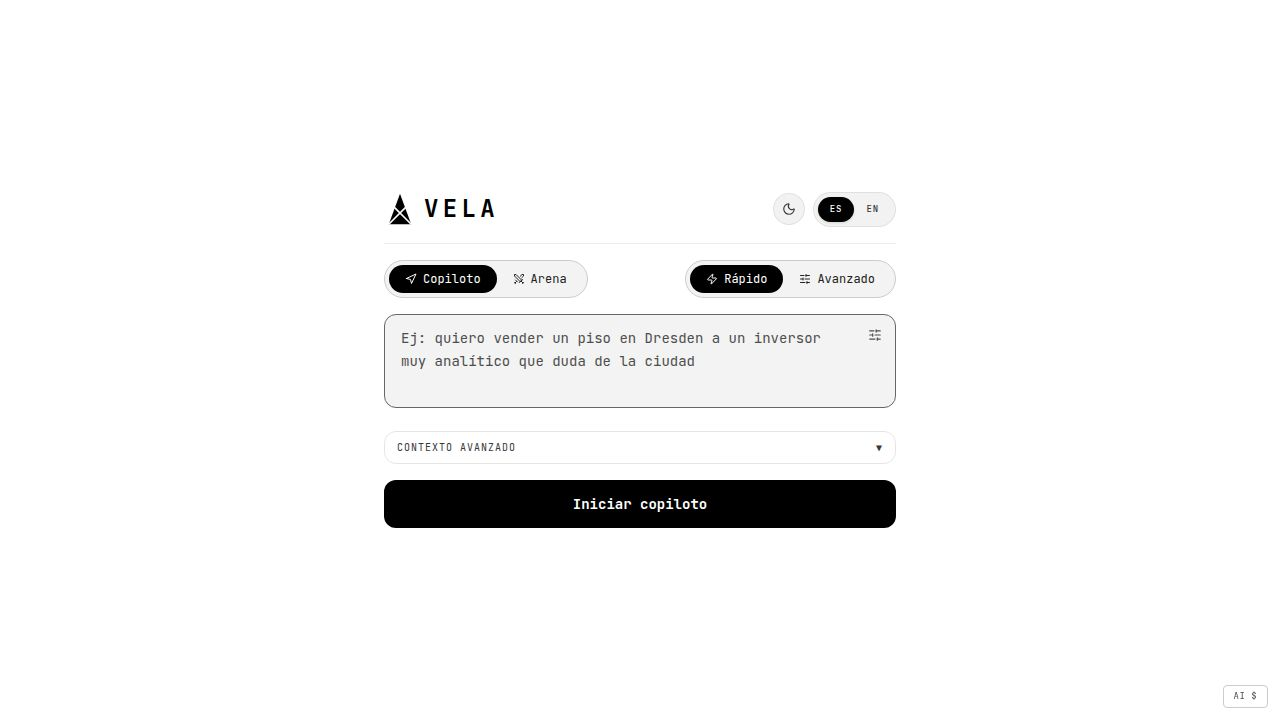
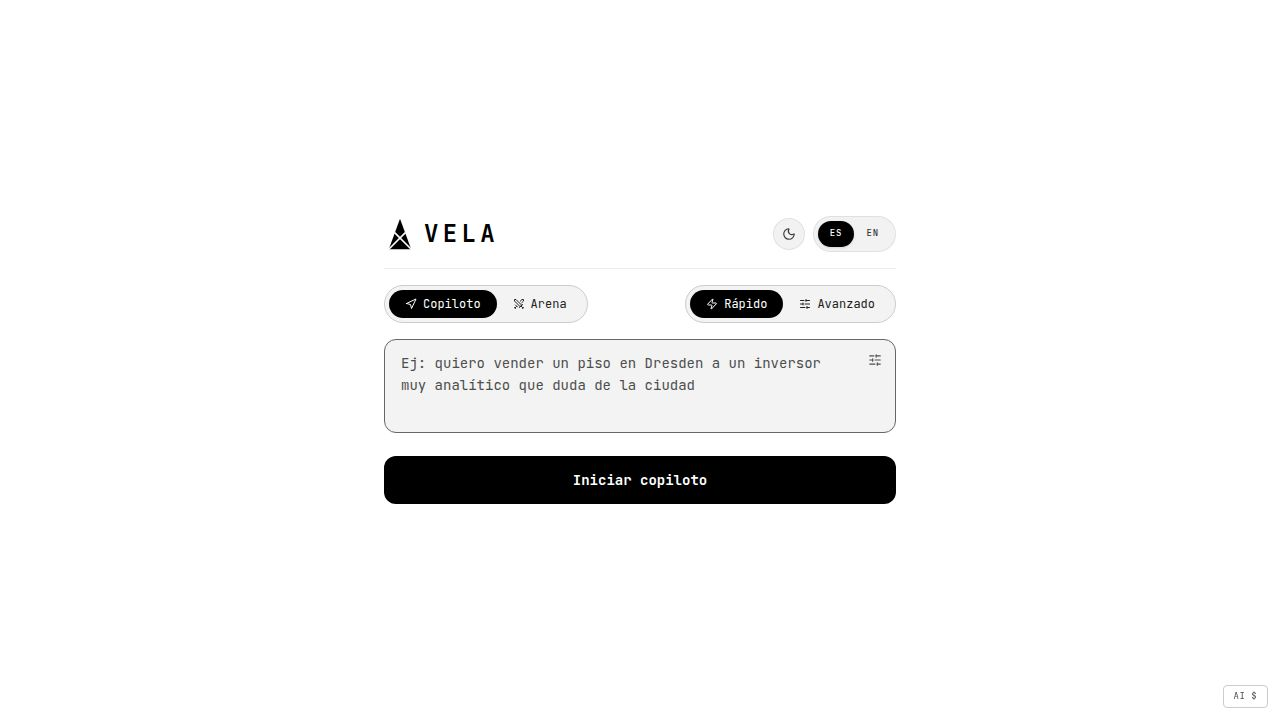
Improve next step and speaker uncertainty evaluation in copilot
Refactor `audit-log.ts` to introduce a 3-level `next_step_quality` classification and update the `speaker_uncertainty` calculation and propagation across frontend and API endpoints.

Replit-Commit-Author: Agent
Replit-Commit-Session-Id: 3252b83a-651d-4a93-ae5d-be14b1b4ba46
Replit-Commit-Checkpoint-Type: full_checkpoint
Replit-Commit-Event-Id: 6249a5c0-dbbf-4f94-830f-a07081d9441c
Replit-Commit-Screenshot-Url: https://storage.googleapis.com/screenshot-production-us-central1/965d7078-f682-4f8c-b5fa-cdb63467bbce/3252b83a-651d-4a93-ae5d-be14b1b4ba46/BwRq414
Replit-Helium-Checkpoint-Created: true

Changed region(s): [[0.2812, 0.275, 0.6875, 0.55], [0.2812, 0.6111, 0.7188, 0.7333]]

diff --git a/artifacts/api-server/src/routes/copilot.ts b/artifacts/api-server/src/routes/copilot.ts
@@ -478,7 +478,7 @@ router.post("/copilot/summarize", async (req, res) => {
   const parseResult = CallSummarizeBody.safeParse(req.body);
   if (!parseResult.success) { res.status(400).json({ error: "Invalid request body" }); return; }
 
-  const { call_memory, outcome, lang, full_report } = parseResult.data;
+  const { call_memory, outcome, lang, full_report, speaker_uncertainty } = parseResult.data;
   const sessionId = (req.headers["x-session-id"] as string | undefined) ?? undefined;
   const isEn = lang === "en";
 
@@ -488,6 +488,12 @@ router.post("/copilot/summarize", async (req, res) => {
 
   const outcomeText = outcome ?? (isEn ? "unclear" : "no claro");
   const wantsFullReport = !!full_report;
+
+  const speakerUncertaintyBlock = speaker_uncertainty?.high
+    ? (isEn
+        ? `\nSPEAKER UNCERTAINTY HIGH: ${speaker_uncertainty.unknown_turns ?? "?"} of ${speaker_uncertainty.total_turns ?? "?"} turns (${Math.round((speaker_uncertainty.rate ?? 0) * 100)}%) were UNKNOWN in auto mode. Tactical reads may be contaminated. DO NOT make strong causal conclusions about conversational control or seller behavior unless supported by explicit memory evidence. Flag any control-related weakness with lower confidence.`
+        : `\nALTA INCERTIDUMBRE DE HABLANTE: ${speaker_uncertainty.unknown_turns ?? "?"} de ${speaker_uncertainty.total_turns ?? "?"} turnos (${Math.round((speaker_uncertainty.rate ?? 0) * 100)}%) fueron UNKNOWN en modo automático. Las lecturas tácticas pueden estar contaminadas. NO saques conclusiones causales fuertes sobre control conversacional o comportamiento del vendedor salvo que haya evidencia explícita en la memoria. Señala cualquier debilidad de control con confianza reducida.`)
+    : "";
 
   // ── Compact bilingual summarize prompt (shared structure, lang-switched values)
   const fullReportInstructions = wantsFullReport
@@ -536,9 +542,10 @@ STAGE ADVANCE vs FAILED CLOSE — distinguish before scoring:
 — Explaining a commercial process step (sending a proposal, scheduling a review) is NOT a close attempt. Only count as a close attempt if there was an explicit request for immediate commitment.
 — Historical objections from context do not dominate if the actual transcript axis was different. Score based on what actually happened.
 NEXT STEP QUALITY — reflect in scoring:
-— strong: date + deliverable + decision criterion → treat as solid outcome (7.5-8.4 range if well executed)
-— useful: date + concrete deliverable → treat as good partial (6.5-7.5)
-— weak: date without deliverable → note as gap, penalize accordingly
+— strong: date/time + deliverable + explicit decision criterion → treat as solid outcome (7.5-8.4 range if well executed). Global_state can be "strong" or "solid".
+— useful: date/time or concrete channel (video call, email, meeting link) or concrete deliverable (proposal, contract, summary, info to send) → treat as real advance (6.5-7.5). Do NOT describe as "open conversation" or "no clear commitment". The next step existed and was operative.
+— weak: no date, no channel, no deliverable → note as gap and penalize. Global_state should not be "strong".
+IMPORTANT: "useful" is a real advance. Penalize for missing decision criterion as a note, but do NOT degrade it to "no commitment" or "open result".
 
 GLOBAL STATE: 1-2 words (strong/solid/advancing/workable/weak/blocked/lost/open)
 STRENGTHS: 2-3 specific tactical observations. No generic praise.
@@ -568,9 +575,10 @@ AVANCE DE ETAPA vs FALLO DE CIERRE — distinguir antes de puntuar:
 — Explicar un paso del proceso comercial (enviar propuesta, agendar revisión) NO es intento de cierre. Solo cuenta si hubo petición explícita de compromiso inmediato.
 — Las objeciones históricas del contexto no dominan si el eje real de la llamada fue otro. Puntúa según lo que ocurrió realmente.
 CALIDAD DEL SIGUIENTE PASO — refleja en la puntuación:
-— fuerte: fecha + entregable + criterio de decisión → tratar como resultado sólido (rango 7.5-8.4 si bien ejecutado)
-— útil: fecha + entregable concreto → buen parcial (6.5-7.5)
-— débil: fecha sin entregable → nota como debilidad, penaliza según corresponda
+— fuerte: fecha/hora + entregable + criterio de decisión explícito → resultado sólido (7.5-8.4 si bien ejecutado). Global_state puede ser "fuerte" o "sólida".
+— útil: fecha/hora o canal concreto (videollamada, correo, enlace de reunión) o entregable concreto (propuesta, contrato, resumen, info a enviar) → avance real (6.5-7.5). NO describir como "conversación abierta" ni "sin compromiso claro". El siguiente paso existió y era operativo.
+— débil: sin fecha, sin canal, sin entregable → señala como debilidad, penaliza. Global_state no puede ser "fuerte".
+IMPORTANTE: "útil" es un avance real. Penaliza por falta de criterio de decisión como nota, pero NO lo degrades a "sin compromiso" ni "resultado abierto".
 
 ESTADO GLOBAL: 1-2 palabras (fuerte/sólida/avanzando/trabajable/floja/bloqueada/perdida/abierta)
 PUNTOS FUERTES: 2-3 observaciones tácticas específicas. Sin elogios genéricos.
@@ -578,7 +586,7 @@ PUNTOS A MEJORAR: 2-3 observaciones tácticas específicas y honestas.
 
 ${fullReportInstructions}`;
 
-  const userMessage = `${isEn ? "TACTICAL CALL MEMORY" : "MEMORIA TÁCTICA"}:\n${memoryText}\n\n${isEn ? "REPORTED OUTCOME" : "RESULTADO DECLARADO"}: ${outcomeText}\n\n${isEn ? "Analyze and return JSON:" : "Analiza y devuelve el JSON:"}`;
+  const userMessage = `${isEn ? "TACTICAL CALL MEMORY" : "MEMORIA TÁCTICA"}:\n${memoryText}\n\n${isEn ? "REPORTED OUTCOME" : "RESULTADO DECLARADO"}: ${outcomeText}${speakerUncertaintyBlock}\n\n${isEn ? "Analyze and return JSON:" : "Analiza y devuelve el JSON:"}`;
 
   const t0 = Date.now();
   try {
@@ -638,17 +646,24 @@ ${fullReportInstructions}`;
 // Input: { call_memory, outcome, context?, lang }
 // Output: BrutalAudit JSON
 router.post("/copilot/audit-report", async (req, res) => {
-  const { call_memory, outcome, context, lang = "es" } = req.body as {
+  const { call_memory, outcome, context, lang = "es", speaker_uncertainty } = req.body as {
     call_memory?: string[];
     outcome?: string;
     context?: string;
     lang?: string;
+    speaker_uncertainty?: { high: boolean; rate?: number; unknown_turns?: number; total_turns?: number };
   };
 
   const isEn = lang === "en";
   const memoryText = (call_memory ?? []).map(l => `- ${l}`).join("\n") || (isEn ? "(No memory)" : "(Sin memoria)");
   const outcomeText = outcome ?? (isEn ? "unknown" : "desconocido");
   const contextText = context?.trim() ? `\n${isEn ? "SESSION CONTEXT" : "CONTEXTO"}: ${context.trim()}` : "";
+
+  const auditSpeakerUncertaintyBlock = speaker_uncertainty?.high
+    ? (isEn
+        ? `\nSPEAKER UNCERTAINTY HIGH: ${speaker_uncertainty.unknown_turns ?? "?"} of ${speaker_uncertainty.total_turns ?? "?"} turns (${Math.round((speaker_uncertainty.rate ?? 0) * 100)}%) were UNKNOWN in auto mode. DO NOT make causal conclusions about who controlled the conversation or about seller-specific tactical patterns unless supported by explicit evidence. The failure_owner field must NOT attribute a failure to "seller" solely based on inferred conversational control if speaker attribution is uncertain. Flag affected findings with lower confidence.`
+        : `\nALTA INCERTIDUMBRE DE HABLANTE: ${speaker_uncertainty.unknown_turns ?? "?"} de ${speaker_uncertainty.total_turns ?? "?"} turnos (${Math.round((speaker_uncertainty.rate ?? 0) * 100)}%) fueron UNKNOWN en modo automático. NO hagas conclusiones causales sobre quién controló la conversación ni sobre patrones tácticos específicos del vendedor salvo que haya evidencia explícita. El campo failure_owner NO debe atribuir un fallo al "vendedor" solo por control conversacional inferido si la atribución de hablante es incierta. Señala los hallazgos afectados con confianza reducida.`)
+    : "";
 
   const schema = `{"verdict":"string","what_worked":["string"],"what_failed":["string"],"failure_owner":["vendedor|timing|sistema|técnico|setup|sin fallo real — descripción"],"missed_closes":["string"],"rules_violated":["string"],"priority_changes":["string","string","string"],"prompt_patch":null,"prompt_for_replit":null,"what_i_would_have_done":"string","suspected_claim_risk":"yes|no","suspected_unresolved_technical_objection":"yes|no","suspected_false_confidence":"yes|no","suspected_soft_next_step":"yes|no"}`;
 
@@ -674,7 +689,8 @@ RISK FLAGS — evaluate carefully and set each:
 — suspected_claim_risk: "yes" if the seller used "guarantee", "certified", "I assure you", "100% safe", "no risk" or similar as a main argument without concrete evidence. "no" otherwise.
 — suspected_unresolved_technical_objection: "yes" if the client raised a specific technical objection (numbers, ROI, methodology, data) and it was deferred to documents or answered with generic reframing instead of concrete evidence. "no" otherwise.
 — suspected_false_confidence: "yes" if the seller used an official certification, regulatory body, or audit as definitive proof of future value or security. "no" otherwise.
-— suspected_soft_next_step: "yes" if the session ended in a next step with no agreed decision criterion for the next call. "no" otherwise.
+— suspected_soft_next_step: "yes" ONLY if the session ended in a next step with NO operative commitment — no specific date or timeframe, no concrete channel (video call, email, meeting link), no concrete deliverable (proposal, contract, summary, documentation). A next step that has any of these is "useful" or "strong", not soft. "no" otherwise.
+— NEXT STEP QUALITY CONTEXT: strong = date/time + deliverable + decision criterion; useful = any operative commitment (date OR channel OR deliverable); weak = none of those. Only "weak" qualifies as suspected_soft_next_step.
 — If the buyer showed an analytical profile (asked for data, numbers, methodology): evaluate whether the seller responded with precision (confirmed/inferred/pending-proof) or with generic persuasion. Generic persuasion to an analytical buyer is a serious failure — name it.
 
 Return EXACTLY this JSON, no markdown, no extra text:
@@ -700,13 +716,14 @@ FLAGS DE RIESGO — evalúa con criterio y devuelve cada uno:
 — suspected_claim_risk: "yes" si el vendedor usó "garantía", "certific", "te aseguro", "100% seguro", "sin riesgo" o similar como argumento principal sin evidencia concreta. "no" en caso contrario.
 — suspected_unresolved_technical_objection: "yes" si el cliente planteó una objeción técnica específica (números, ROI, metodología, datos) y fue derivada a documentación o respondida con reencuadre genérico en lugar de evidencia concreta. "no" en caso contrario.
 — suspected_false_confidence: "yes" si el vendedor usó una certificación oficial, organismo regulador o auditoría como prueba definitiva de valor o seguridad futura. "no" en caso contrario.
-— suspected_soft_next_step: "yes" si la sesión terminó en siguiente paso sin criterio de decisión acordado para la próxima llamada. "no" en caso contrario.
+— suspected_soft_next_step: "yes" SOLO si la sesión terminó en siguiente paso SIN compromiso operativo — sin fecha ni franja horaria concreta, sin canal concreto (videollamada, email, enlace de reunión), sin entregable concreto (propuesta, contrato, resumen, documentación). Un siguiente paso con cualquiera de estos es "útil" o "fuerte", no blando. "no" en caso contrario.
+— CONTEXTO DE CALIDAD DEL SIGUIENTE PASO: fuerte = fecha/hora + entregable + criterio de decisión; útil = cualquier compromiso operativo (fecha O canal O entregable); débil = ninguno. Solo "débil" califica como suspected_soft_next_step.
 — Si el comprador mostró perfil analítico (pidió datos, cifras, metodología, evidencia): evalúa si el vendedor respondió con precisión (confirmado/inferido/pendiente de prueba) o con persuasión genérica. La persuasión genérica ante un analítico es un fallo grave — nómbralo específicamente.
 
 Devuelve EXACTAMENTE este JSON, sin markdown, sin texto extra:
 ${schema}`;
 
-  const userMessage = `${isEn ? "TACTICAL CALL MEMORY" : "MEMORIA TÁCTICA"}:\n${memoryText}${contextText}\n\n${isEn ? "REPORTED OUTCOME" : "RESULTADO DECLARADO"}: ${outcomeText}`;
+  const userMessage = `${isEn ? "TACTICAL CALL MEMORY" : "MEMORIA TÁCTICA"}:\n${memoryText}${contextText}\n\n${isEn ? "REPORTED OUTCOME" : "RESULTADO DECLARADO"}: ${outcomeText}${auditSpeakerUncertaintyBlock}`;
 
   try {
     const completion = await openai.chat.completions.create({

diff --git a/artifacts/silent-closer/src/lib/audit-log.ts b/artifacts/silent-closer/src/lib/audit-log.ts
@@ -438,9 +438,28 @@ export function buildCopilotAuditLog(data: CopilotSessionData): AuditLog {
   const falseConfidenceTerms = ["certif", "homolog", "regulad", "oficial", "certificate", "certified", "regulated", "official", "auditoría", "audit"];
   const suspectedFalseConfidence = falseConfidenceTerms.some(t => allMemoryText.includes(t));
 
-  // SOFT_NEXT_STEP: next_step outcome + no agreed decision criterion visible in memory
+  // NEXT_STEP_QUALITY — 3-level classifier for next_step outcomes
+  // Operative commitment: date/time, concrete channel, or concrete deliverable
+  const dateTimeTerms = ["fecha", "lunes", "martes", "miércoles", "jueves", "viernes", "sábado", "domingo", "mañana", "pasado", "próxima semana", "próximo", "esta semana", "monday", "tuesday", "wednesday", "thursday", "friday", "saturday", "sunday", "tomorrow", "next week", ":00", " am ", " pm ", "a las ", "at "];
+  const channelTerms = ["videollamada", "videoconferencia", "video call", "video-call", "zoom", "teams", "google meet", "meet ", "correo", "e-mail", "email", "convocatoria", "enlace", "link", "reunión", "reunion", "meeting", "llamada"];
+  const deliverableTerms = ["resumen", "propuesta", "contrato", "documentación", "documentacion", "información", "summary", "proposal", "contract", "documentation", "agenda", "informe", "report", "presupuesto", "oferta", "dossier"];
   const decisionCriterionTerms = ["criterio", "condición", "condition", "criterion", "acordad", "agreed", "compromi", "commit"];
-  const suspectedSoftNextStep = isNextStep && !decisionCriterionTerms.some(t => allMemoryText.includes(t));
+
+  const hasDateTime = dateTimeTerms.some(t => allMemoryText.includes(t));
+  const hasChannel  = channelTerms.some(t => allMemoryText.includes(t));
+  const hasDeliverable = deliverableTerms.some(t => allMemoryText.includes(t));
+  const hasOperativeCommitment = hasDateTime || hasChannel || hasDeliverable;
+  const hasDecisionCriterion = decisionCriterionTerms.some(t => allMemoryText.includes(t));
+
+  type NextStepQuality = "strong" | "useful" | "weak";
+  const nextStepQuality: NextStepQuality | null = isNextStep
+    ? (hasOperativeCommitment && hasDecisionCriterion ? "strong"
+      : hasOperativeCommitment ? "useful"
+      : "weak")
+    : null;
+
+  // SOFT_NEXT_STEP: only when next_step quality is WEAK (no operative commitment at all)
+  const suspectedSoftNextStep = isNextStep && nextStepQuality === "weak";
 
   // Summary
   const summary: SessionSummary = {
@@ -478,8 +497,10 @@ export function buildCopilotAuditLog(data: CopilotSessionData): AuditLog {
   if (suspectedClaimRisk) auditNotes.push("CLAIM_RISK detected — seller may have used assurance language without concrete evidence");
   if (suspectedUnresolvedTechnical) auditNotes.push("UNRESOLVED_TECHNICAL_OBJ detected — technical objection may have been deferred without in-call resolution");
   if (suspectedFalseConfidence) auditNotes.push("FALSE_CONFIDENCE detected — certification or official body may have been used as definitive proof");
-  if (suspectedSoftNextStep) auditNotes.push("SOFT_NEXT_STEP detected — next step agreed without visible decision criterion for next call");
-  if (hasSpeakerUncertainty) auditNotes.push(`SPEAKER_UNCERTAINTY detected — ${unknownTurns} of ${data.turnLog.length} turns were UNKNOWN in auto mode (${Math.round(unknownRate * 100)}%). Tactical reads may be contaminated. Consider using CLIENTE/YO attribution in future sessions.`);
+  if (nextStepQuality === "strong") auditNotes.push("NEXT_STEP_QUALITY strong — operative commitment (date/channel/deliverable) + explicit decision criterion detected");
+  if (nextStepQuality === "useful") auditNotes.push("NEXT_STEP_QUALITY useful — operative commitment agreed (date, channel, or concrete deliverable) without explicit decision criterion for next call");
+  if (suspectedSoftNextStep) auditNotes.push("SOFT_NEXT_STEP detected — next step has no detected operative commitment (no date, no channel, no deliverable)");
+  if (hasSpeakerUncertainty) auditNotes.push(`SPEAKER_UNCERTAINTY detected — ${unknownTurns} of ${data.turnLog.length} turns were UNKNOWN in auto mode (${Math.round(unknownRate * 100)}%). Tactical reads may be contaminated. Causal conclusions about conversational control should be treated with lower confidence. Consider using CLIENTE/YO attribution in future sessions.`);
 
   const hints: AuditHints = {
     likely_primary_failure: isLost ? "seller" : errorTurns > 0 ? "technical" : parseErrors > 0 ? "system" : "none",

diff --git a/artifacts/silent-closer/src/pages/copilot.tsx b/artifacts/silent-closer/src/pages/copilot.tsx
@@ -770,16 +770,24 @@ export default function CopilotPage() {
     setEndStep("outcome");
   };
 
+  const computeSpeakerUncertainty = () => {
+    if (speakerMode !== "auto" || turnLog.length === 0) return undefined;
+    const unknownTurns = turnLog.filter(t => t.inferred_speaker === "UNKNOWN").length;
+    const rate = unknownTurns / turnLog.length;
+    return { high: rate > 0.4, rate, unknown_turns: unknownTurns, total_turns: turnLog.length };
+  };
+
   const handleSelectOutcome = async (outcome: CallOutcome) => {
     setCallOutcome(outcome);
     setEndStep("summary");
     setIsSummarizing(true);
     const memory = tacticalState.callMemory;
+    const speakerUncertainty = computeSpeakerUncertainty();
     try {
       const res = await fetch("/api/copilot/summarize", {
         method: "POST",
         headers: { "Content-Type": "application/json" },
-        body: JSON.stringify({ call_memory: memory, outcome, lang: langRef.current }),
+        body: JSON.stringify({ call_memory: memory, outcome, lang: langRef.current, ...(speakerUncertainty ? { speaker_uncertainty: speakerUncertainty } : {}) }),
       });
       const data = await res.json() as {
         score: number; global_state: string; result_label: string;
@@ -807,6 +815,7 @@ export default function CopilotPage() {
 
   const handleGenerateReport = async () => {
     setIsGeneratingReport(true);
+    const speakerUncertainty = computeSpeakerUncertainty();
     try {
       const res = await fetch("/api/copilot/summarize", {
         method: "POST",
@@ -816,6 +825,7 @@ export default function CopilotPage() {
           outcome: callOutcome,
           lang: langRef.current,
           full_report: true,
+          ...(speakerUncertainty ? { speaker_uncertainty: speakerUncertainty } : {}),
         }),
       });
       const data = await res.json() as { full_report?: string };
@@ -837,6 +847,7 @@ export default function CopilotPage() {
     if (brutalAudit || brutalAuditLoading) return;
     setBrutalAuditLoading(true);
     setBrutalAuditError(false);
+    const speakerUncertainty = computeSpeakerUncertainty();
     try {
       const res = await fetch("/api/copilot/audit-report", {
         method: "POST",
@@ -846,6 +857,7 @@ export default function CopilotPage() {
           outcome: callOutcome ?? "unclear",
           context: sessionContext ?? undefined,
           lang,
+          ...(speakerUncertainty ? { speaker_uncertainty: speakerUncertainty } : {}),
         }),
       });
       if (!res.ok) throw new Error("audit failed");